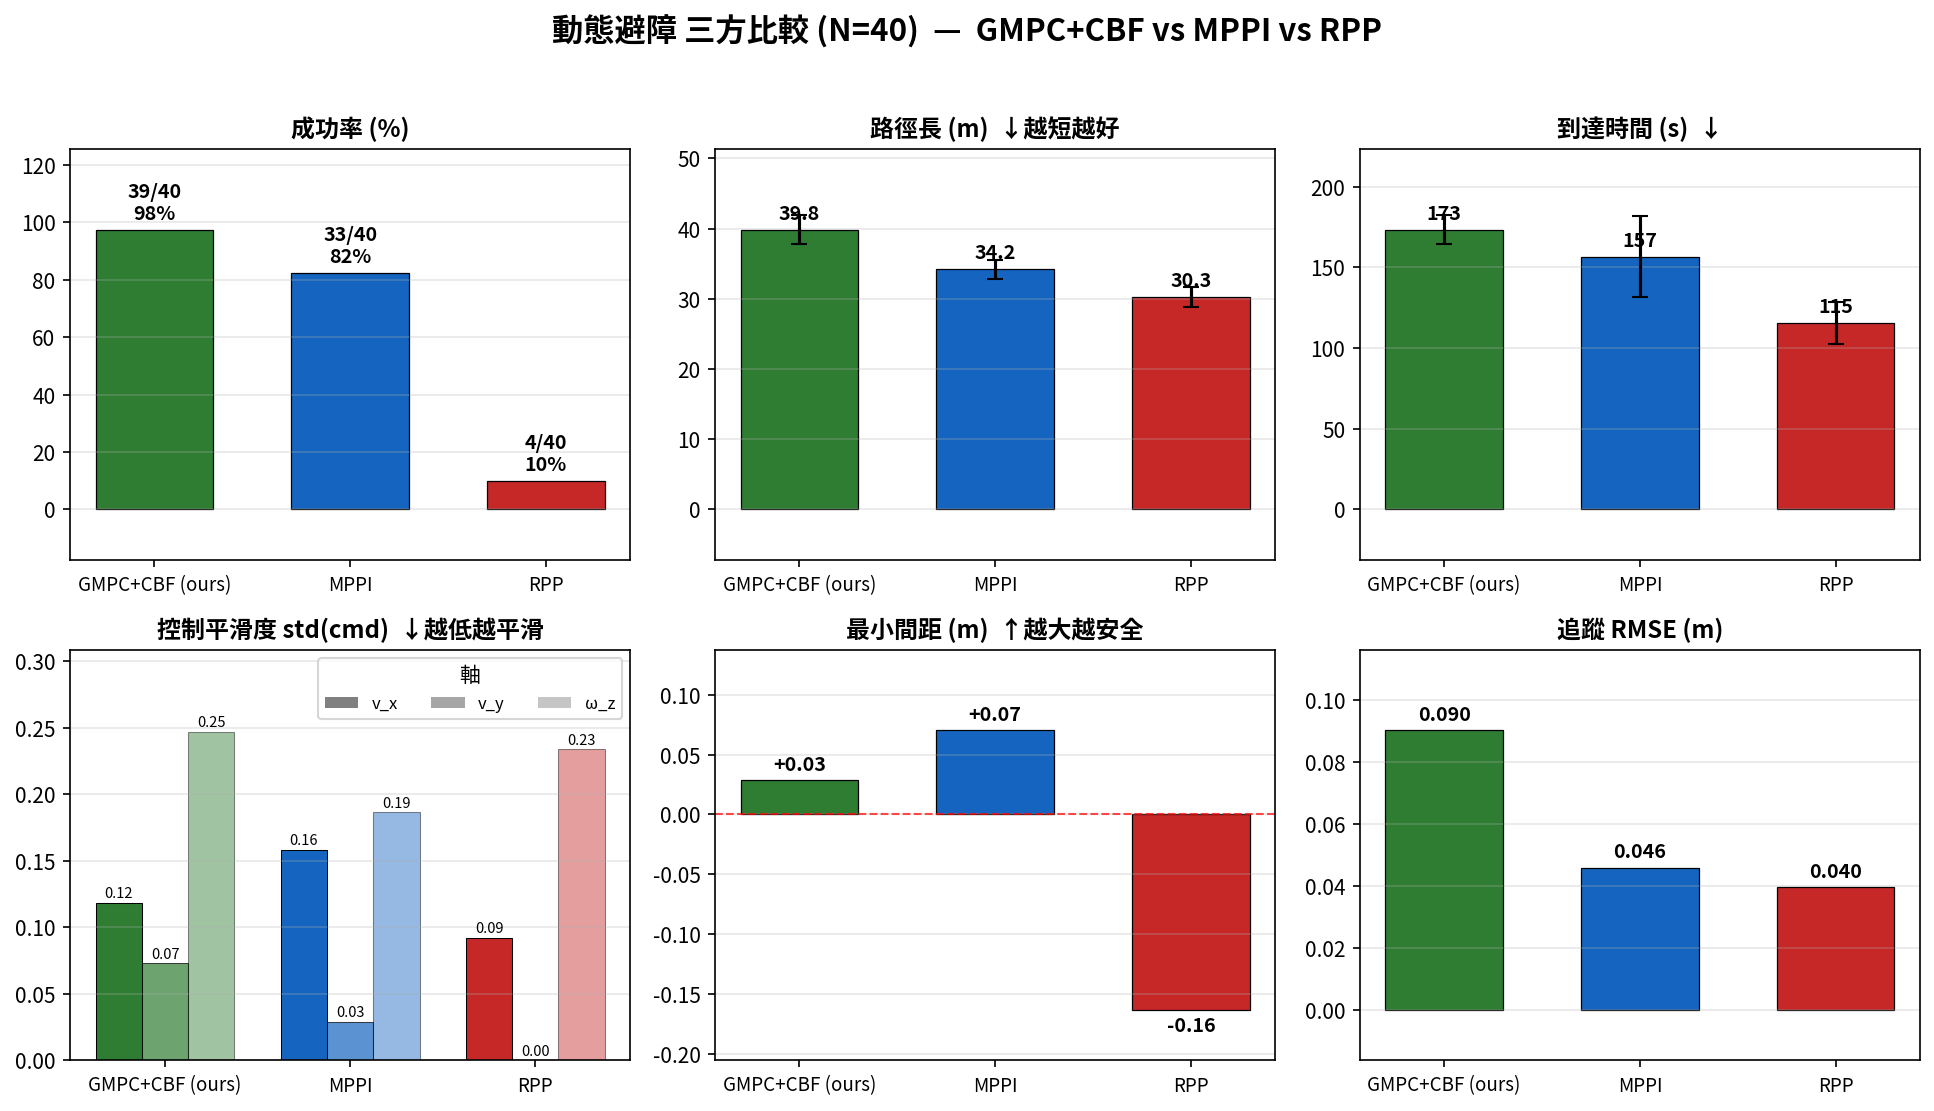
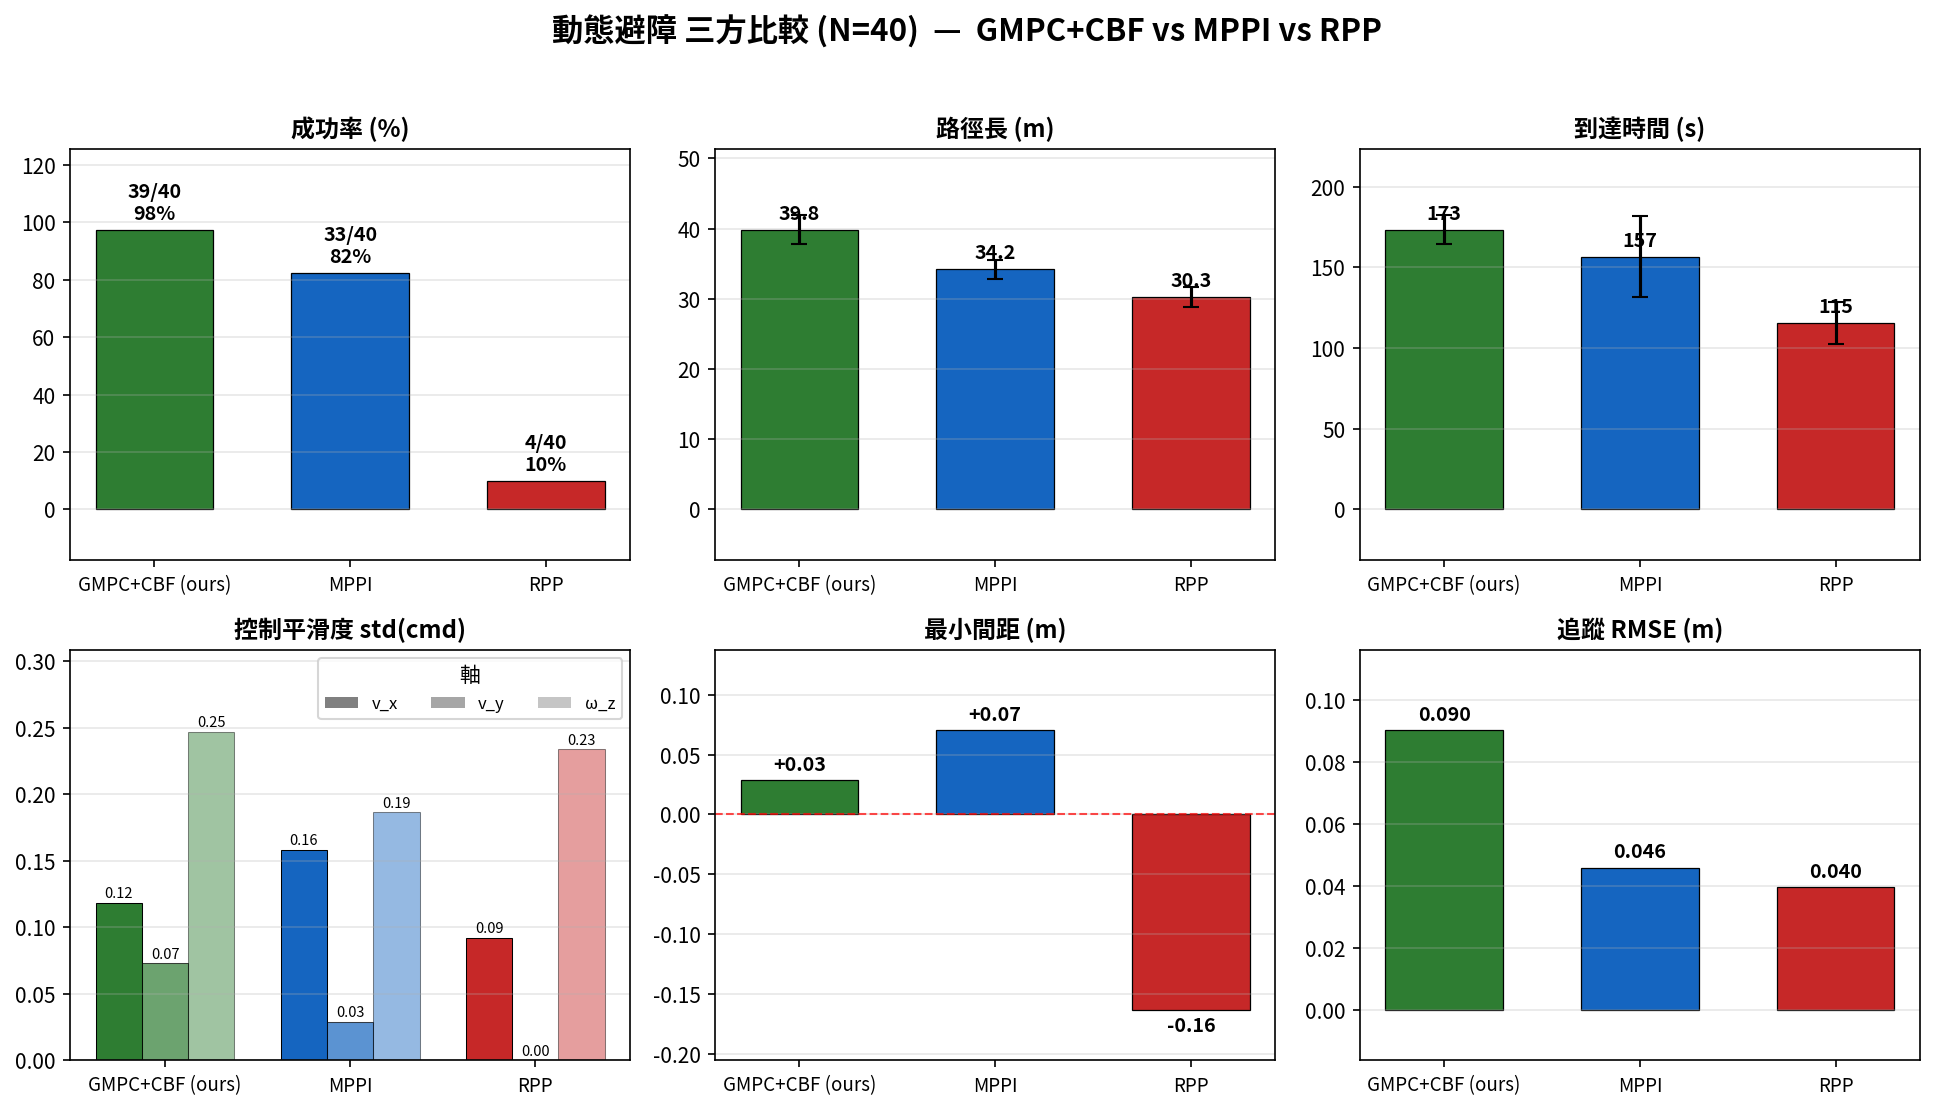
Auto-update: 2026-06-30 19:59

diff --git a/evaluation/plot_3way.py b/evaluation/plot_3way.py
@@ -61,10 +61,10 @@ fig.suptitle('動態避障 三方比較 (N=40)  —  GMPC+CBF vs MPPI vs RPP', f
 
 panels=[
  ('成功率 (%)',      'succ_pct', None,      '%.0f%%', False),
- ('路徑長 (m)  ↓越短越好','path','path_sd', '%.1f',  True),
- ('到達時間 (s)  ↓',  'arr','arr_sd',       '%.0f',  True),
- ('控制平滑度 std(cmd)  ↓越低越平滑','SMOOTH', None, '%.2f', False),
- ('最小間距 (m)  ↑越大越安全','clr',None,    '%+.2f', False),
+ ('路徑長 (m)','path','path_sd', '%.1f',  True),
+ ('到達時間 (s)',  'arr','arr_sd',       '%.0f',  True),
+ ('控制平滑度 std(cmd)','SMOOTH', None, '%.2f', False),
+ ('最小間距 (m)','clr',None,    '%+.2f', False),
  ('追蹤 RMSE (m)',    'rmse',None,          '%.3f',  False),
 ]
 for ax,(title,key,sdk,fmt,_) in zip(axes.flat,panels):
